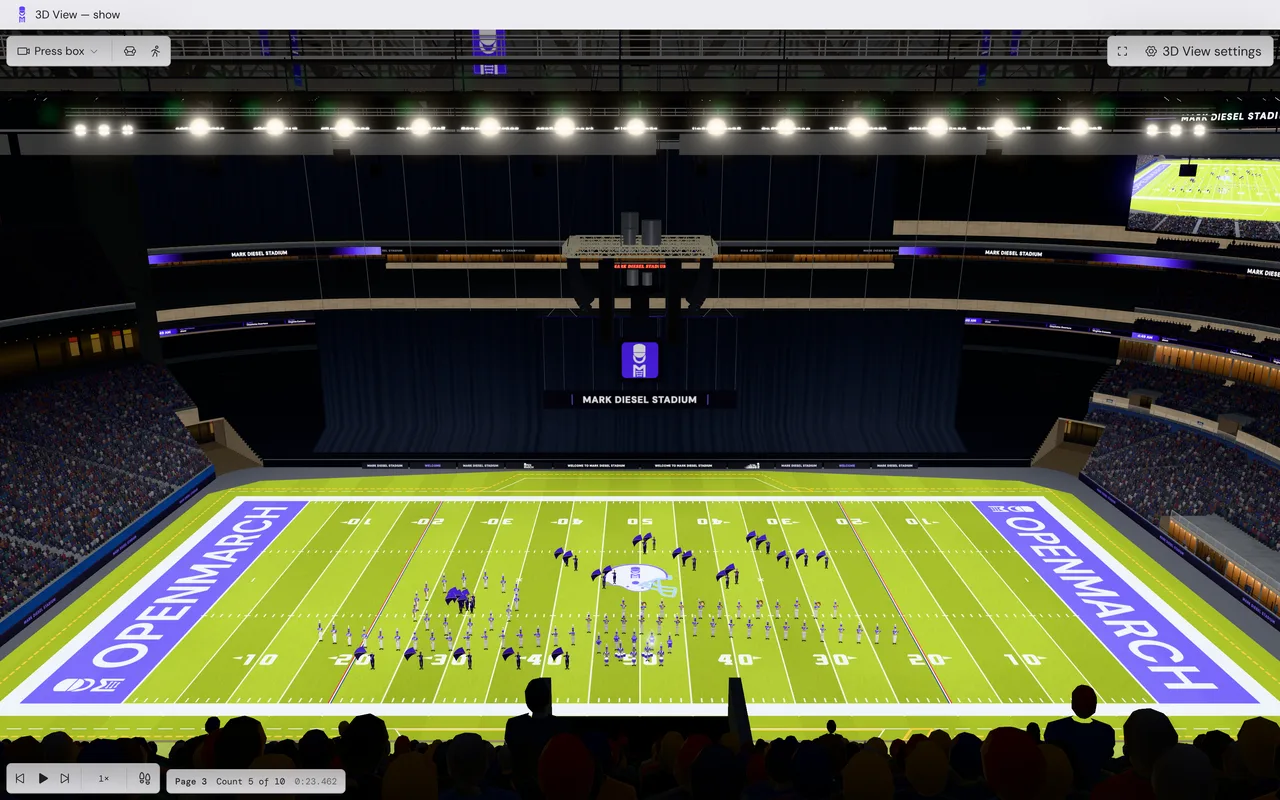
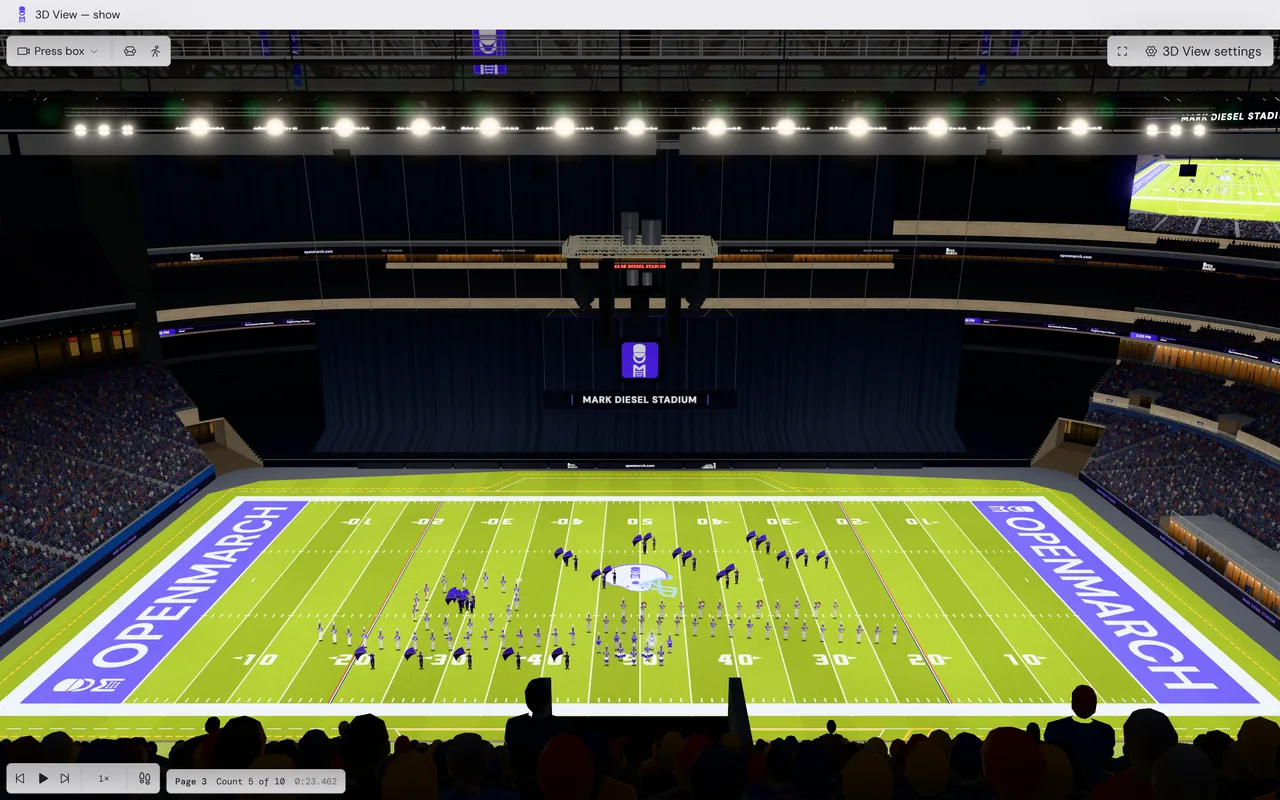
feat(view3d): quiet Mark Diesel's sideline boards and upper ribbon
The back sideline boards drop their text: dark boards, with OpenMarch's
logo, openmarch.com and On The Move's logo in the middle. The upper LED
ribbon shows only OpenMarch's logo and openmarch.com on black, without the
glow. The guide picture is re-recorded.

diff --git a/apps/desktop/src/view3d/core/kits/markDiesel/brand.ts b/apps/desktop/src/view3d/core/kits/markDiesel/brand.ts
@@ -17,11 +17,10 @@ import type { ShowCredits, VenueParams } from "../../types";
  * The venue's identity: everything in the hall that carries a name or a
  * logo is painted here, on canvas. The hall is Mark Diesel Stadium and
  * names no event, so any show can be on its field; OpenMarch's marks stay
- * few: the
- * drape's logo panel, one back sideline board, the flags in the
- * roof, the end zones and the marcher on the midfield helmet. No
- * other brand, real or made up. The marks are OpenMarch's own, never
- * redrawn:
+ * few and quiet: the drape's logo panel, two back sideline boards (the logo
+ * and openmarch.com), the upper LED ribbon (the same two), the flags in the
+ * roof, the end zones and the marcher on the midfield helmet. No other
+ * brand, real or made up. The marks are OpenMarch's own, never redrawn:
  *
  * - the logo, "OPEN" over "MARCH" with the marcher standing in for the O
  *   and the M (`OPENMARCH_LOGO`, from `apps/website/public/openmarch.svg`);
@@ -36,12 +35,11 @@ import type { ShowCredits, VenueParams } from "../../types";
  * type is DM Sans, the app's face, but for the red suite signs' leaning
  * serif (`stadiumSign.ts`).
  *
- * Everywhere else the hall names itself: the drape's banner,
- * the LED ribbons,
- * the video boards' header and card, the field wall's pads, the other
- * sideline boards, the rafter banners, the ring of legends and the plaza's
- * monument signs. The boards and ribbons show the show's own title when it
- * has one.
+ * Everywhere else the hall names itself: the drape's banner, the video
+ * boards' header and card, the field wall's pads, the rafter banners, the
+ * ring of legends and the plaza's monument signs; the other sideline boards
+ * are dark. The video boards and the lower LED ribbon show the show's own
+ * title when it has one.
  *
  * Painters take a 2D context and the face's size in pixels and nothing else,
  * so tests can run them against a recording context. The `diesel*Texture`
@@ -70,8 +68,6 @@ export const OPENMARCH_SIGN = "OPENMARCH";
 /** The hall's name, as its signs set it. */
 export const DIESEL_NAME = "MARK DIESEL";
 export const DIESEL_STADIUM = "MARK DIESEL STADIUM";
-/** What the long boards greet the crowd with. */
-export const DIESEL_WELCOME = "WELCOME TO MARK DIESEL STADIUM";
 
 /**
  * The venue's colors and end-zone lettering for a show that has not chosen
@@ -566,27 +562,21 @@ export function paintRibbonLower(
 }
 
 /**
- * One tile of the upper LED ribbon: GRAND NATIONALS in white on black, between a violet-to-lavender glow at each end.
+ * One tile of the upper LED ribbon, black and quiet: OpenMarch's logo in
+ * the first half and its web address in the second, each centered in its
+ * half, so the two alternate all the way round.
  */
 export function paintRibbonUpper(g: G, w: number, h: number): void {
     g.fillStyle = OM.ink;
     g.fillRect(0, 0, w, h);
-    const glow = g.createLinearGradient(0, 0, w, 0);
-    glow.addColorStop(0, OM.lavender);
-    glow.addColorStop(0.08, OM.violet);
-    glow.addColorStop(0.2, "rgba(100,66,255,0)");
-    glow.addColorStop(0.8, "rgba(100,66,255,0)");
-    glow.addColorStop(0.92, OM.violet);
-    glow.addColorStop(1, OM.lavender);
-    g.fillStyle = glow;
-    g.fillRect(0, 0, w, h);
-    signText(g, DIESEL_STADIUM, w / 2, h / 2, h * 0.42, {
-        color: OM.white,
+    paintLogo(g, w / 4, h / 2, h * 0.8, OM.white);
+    signText(g, OPENMARCH_SITE, (3 * w) / 4, h / 2, h * 0.32, {
+        color: OM.mist,
         align: "center",
-        spacing: 0.06,
-        maxWidth: w * 0.6,
+        spacing: 0.04,
+        maxWidth: w * 0.4,
     });
-    ledEdges(g, w, h, "rgba(255,255,255,0.22)");
+    ledEdges(g, w, h, "rgba(255,255,255,0.12)");
 }
 
 /**
@@ -672,18 +662,16 @@ export type SponsorFace =
     | "logo"
     /** The On The Move app's logo. */
     | "otm"
-    /** A line of text. */
-    | "text"
-    /** The welcome to the hall, on the long middle boards. */
-    | "event";
+    /** OpenMarch's web address, on the long middle board. */
+    | "site"
+    /** Nothing: a dark board. */
+    | "blank";
 
 /** One board on the back sideline. */
 export interface SponsorPanel {
     /** Meters wide; every board is `SPONSOR_HEIGHT` tall. */
     width: number;
     face: SponsorFace;
-    /** The line on a "text" board. */
-    text?: string;
     ground: string;
     color: string;
 }
@@ -691,36 +679,35 @@ export interface SponsorPanel {
 /** Height of the sponsor boards, meters. */
 export const SPONSOR_HEIGHT = 1;
 
+/** OpenMarch's web address, as the boards and the upper ribbon show it. */
+export const OPENMARCH_SITE = "openmarch.com";
+
 const board = (
     face: SponsorFace,
     ground: string,
     color: string,
-    text?: string,
-): SponsorPanel => ({ width: 7, face, ground, color, text });
-const EVENT_BOARD: SponsorPanel = {
-    width: 13,
-    face: "event",
-    ground: OM.ink,
-    color: OM.white,
-};
+    width = 7,
+): SponsorPanel => ({ width, face, ground, color });
+/** One dark board, shared so the atlas paints it once. */
+const BLANK_BOARD = board("blank", OM.ink, OM.white);
 
 /**
  * The boards along the back sideline, from the audience's left to right:
- * the hall's name and its welcome, with OpenMarch's logo on one side of the middle
- * and On The Move's on the other (the ends drop first where the row is too
- * long).
+ * dark boards, then OpenMarch's logo, its web address and On The Move's
+ * logo in the middle (the dark ends drop first where the row is too long).
  */
 export const SPONSOR_PANELS: SponsorPanel[] = [
-    board("text", OM.night, OM.mist, DIESEL_STADIUM),
-    board("text", OM.ink, OM.lavender, "WELCOME"),
-    board("text", OM.night, OM.mist, DIESEL_STADIUM),
+    BLANK_BOARD,
+    BLANK_BOARD,
+    BLANK_BOARD,
+    BLANK_BOARD,
     board("logo", OM.ink, OM.white),
-    EVENT_BOARD,
-    EVENT_BOARD,
+    board("site", OM.ink, OM.white, 13),
     board("otm", OM.ink, OM.white),
-    board("text", OM.night, OM.mist, DIESEL_STADIUM),
-    board("text", OM.ink, OM.lavender, "WELCOME"),
-    board("text", OM.night, OM.mist, DIESEL_STADIUM),
+    BLANK_BOARD,
+    BLANK_BOARD,
+    BLANK_BOARD,
+    BLANK_BOARD,
 ];
 
 /** One sponsor board, `w` x `h` pixels. */
@@ -749,16 +736,16 @@ export function paintSponsorPanel(
                 color,
             );
             return;
-        case "event":
-        case "text":
-            signText(
-                g,
-                panel.face === "event" ? DIESEL_WELCOME : (panel.text ?? ""),
-                w / 2,
-                h / 2,
-                h * 0.3,
-                { color, align: "center", spacing: 0.08, maxWidth: room },
-            );
+        case "site":
+            signText(g, OPENMARCH_SITE, w / 2, h / 2, h * 0.36, {
+                color,
+                align: "center",
+                spacing: 0.04,
+                maxWidth: room,
+            });
+            return;
+        case "blank":
+            return;
     }
 }
 

diff --git a/apps/desktop/src/view3d/core/kits/__test__/markDieselBrand.test.ts b/apps/desktop/src/view3d/core/kits/__test__/markDieselBrand.test.ts
@@ -231,22 +231,33 @@ describe("Venue brand painters", () => {
                 paintRafterBanner(g, banner, 256, 640),
             );
         });
-        // OpenMarch's marks: the drape's panel, the flags and one board; On
-        // The Move's logo is on another.
+        // OpenMarch's marks: the drape's panel, the flags, the upper ribbon
+        // and two boards (the logo and the web address); On The Move's logo
+        // is on a third. The other boards are dark.
         const branded = Object.entries(faces)
             .filter(([, text]) => /\[logo\]|\[marcher\]|openmarch/i.test(text))
             .map(([face]) => face);
-        const logoBoards = SPONSOR_PANELS.map((p, i) =>
-            p.face === "logo" ? `sponsor${i}` : null,
-        ).filter((f) => f !== null);
-        expect(logoBoards).toHaveLength(1);
-        expect(SPONSOR_PANELS.filter((p) => p.face === "otm")).toHaveLength(1);
+        const boardsShowing = (face: string) =>
+            SPONSOR_PANELS.map((p, i) =>
+                p.face === face ? `sponsor${i}` : null,
+            ).filter((f) => f !== null);
+        expect(boardsShowing("logo")).toHaveLength(1);
+        expect(boardsShowing("site")).toHaveLength(1);
+        expect(boardsShowing("otm")).toHaveLength(1);
         expect(branded.sort()).toEqual(
-            ["logoPanel", "flag", ...logoBoards].sort(),
+            [
+                "logoPanel",
+                "flag",
+                "ribbonUpper",
+                ...boardsShowing("logo"),
+                ...boardsShowing("site"),
+            ].sort(),
         );
+        for (const face of boardsShowing("blank"))
+            expect(faces[face], face).toBe("");
         for (const [face, text] of Object.entries(faces))
             expect(text, face).not.toMatch(
-                /lucas|colts|yamaha|bands of america|\bboa\b|openmarch\.com/i,
+                /lucas|colts|yamaha|bands of america|\bboa\b/i,
             );
         // No event is named anywhere: any show can be on the field.
         for (const [face, text] of Object.entries(faces))
@@ -254,7 +265,8 @@ describe("Venue brand painters", () => {
         expect(faces.banner).toBe("MARK DIESEL STADIUM");
         expect(faces.wall).toBe("MARK DIESEL STADIUM");
         expect(faces.nameRing).toBe("MARK DIESEL STADIUM | RING OF CHAMPIONS");
-        expect(faces.ribbonUpper).toBe("MARK DIESEL STADIUM");
+        expect(faces.ribbonUpper).toBe("[logo] | openmarch.com");
+        expect(faces[boardsShowing("site")[0]]).toBe("openmarch.com");
         expect(faces.sign).toContain("MARK DIESEL STADIUM");
         expect(faces.header).toBe("MARK DIESEL STADIUM");
         expect(faces.monument).toBe("MARK DIESEL | STADIUM | WELCOME");
@@ -618,8 +630,8 @@ describe("Mark Diesel field surround", () => {
         expect(first.x - first.panel.width / 2).toBeGreaterThanOrEqual(
             -room / 2,
         );
-        // The event's own boards, in the middle, are the last to go.
-        expect(row.some((b) => b.panel.face === "event")).toBe(true);
+        // The marks in the middle are the last to go.
+        expect(row.some((b) => b.panel.face === "site")).toBe(true);
     });
 
     it("packs each distinct board once, inside the atlas", () => {

diff --git a/apps/desktop/src/view3d/core/kits/markDiesel/surround.ts b/apps/desktop/src/view3d/core/kits/markDiesel/surround.ts
@@ -22,13 +22,12 @@ import { ringStrip } from "./ribbons";
 /**
  * What stands round the field at field level, in kit-root space:
  *
- * - the padded wall's printed face: dark vinyl pads with the event's name,
+ * - the padded wall's printed face: dark vinyl pads with the hall's name,
  *   a few centimeters in front of the bowl's wall, everywhere but under
  *   the drape (where the wall stays black);
  * - the sponsor boards: a row of low printed boards along the back
- *   sideline, in front of the wall under the drape: the hall's and the
- *   event's names, with OpenMarch's and On The Move's logos either side of
- *   the event's own boards in the middle.
+ *   sideline, in front of the wall under the drape: dark boards, with
+ *   OpenMarch's logo, openmarch.com and On The Move's logo in the middle.
  *
  * Both are printed surfaces lit by the hall; the boards also glow a little,
  * so they read against the black behind them.

diff --git a/apps/desktop/src/view3d/core/kits/markDiesel/boards.ts b/apps/desktop/src/view3d/core/kits/markDiesel/boards.ts
@@ -32,7 +32,7 @@ export { dieselRibbonLevel } from "./ribbons";
  *   `dieselBoardSpots`): LED screens facing the field's center, each
  *   under a lit sign with the hall's name, hung from the roof on four rods.
  *   At high quality they show a live picture of the field (`feed.ts`); at
- *   low quality a bright card with the event and the show now performing;
+ *   low quality a bright card with a welcome and the show now performing;
  * - the LED ribbons (`ribbons.ts`);
  * - the field wall's pads and the sponsor boards (`surround.ts`);
  * - the rafter banners (`banners.ts`).

diff --git a/apps/desktop/src/view3d/core/kits/markDiesel/ribbons.ts b/apps/desktop/src/view3d/core/kits/markDiesel/ribbons.ts
@@ -28,7 +28,7 @@ import { dieselLighting } from "./lighting";
  * - the lower ribbon on the club fascia, all the way round the bowl: the
  *   clock, the show now performing and the bands after it;
  * - the upper ribbon on the terrace fascia, round the four corners and the
- *   ends: the hall's name.
+ *   ends: OpenMarch's logo and openmarch.com.
  *
  * Each is its own mesh a few centimeters in front of the bowl's fascia,
  * facing the field, and crawls slowly to the left while the window draws.
